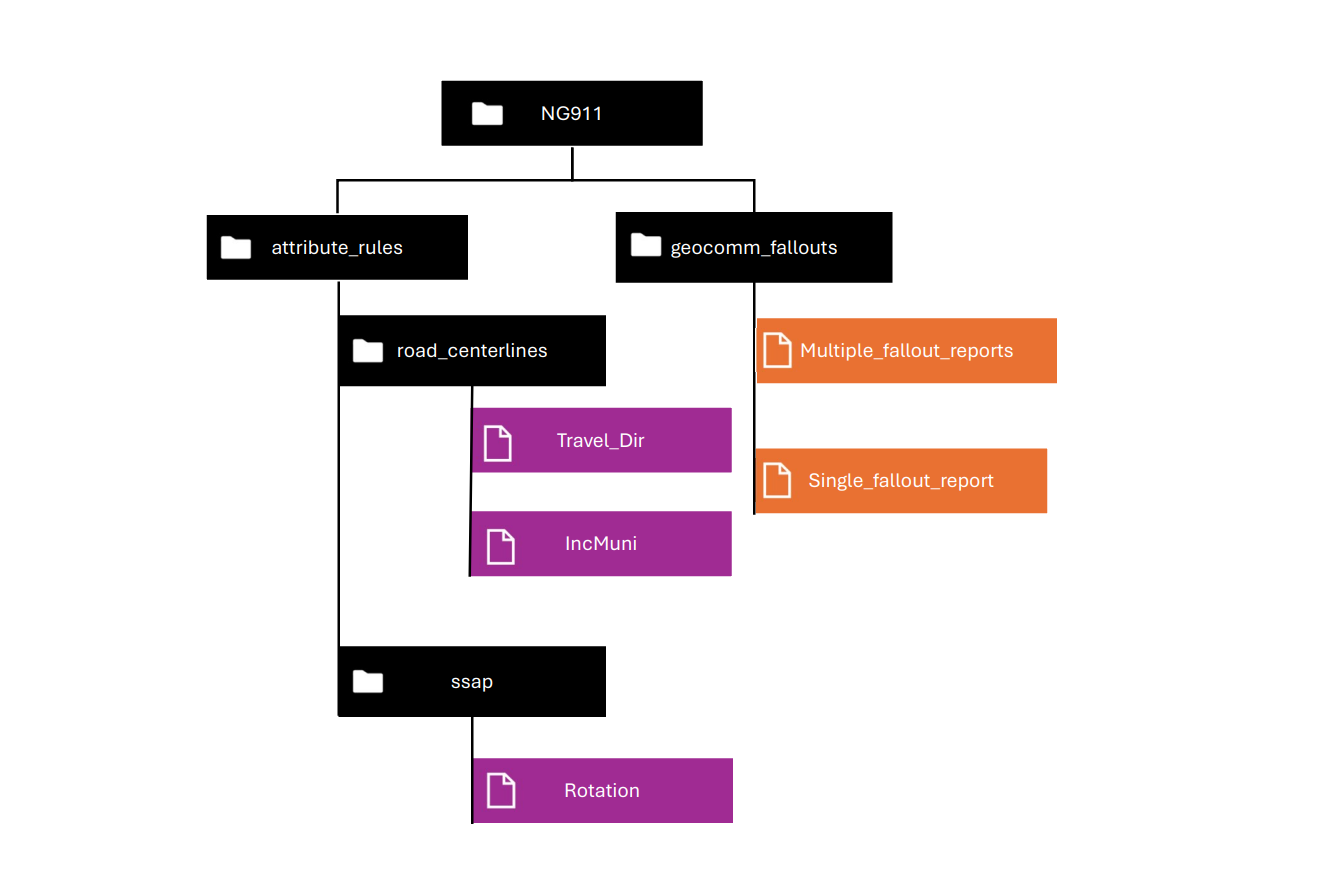
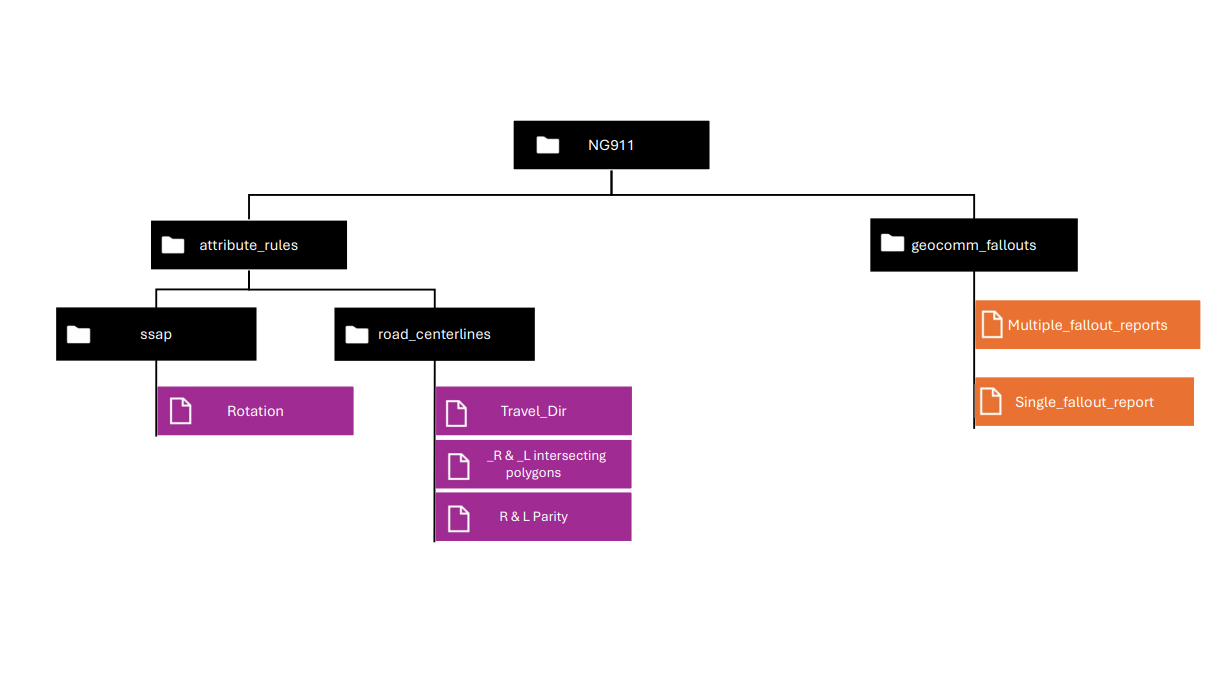
updated R&L rule
updated the incMuni_ rules to be more general, updated overview of contents

Changed region(s): [[0.031, 0.0917, 0.9927, 0.9476]]

diff --git a/attribute_rules/road_centerlines/_R_L-intersectingPolygons.md b/attribute_rules/road_centerlines/_R_L-intersectingPolygons.md
@@ -1,12 +1,12 @@
-# IncMuni_L and IncMuni_R Attribute Rules
-These rules create an array of municipalities that intersect the road centerline feature. 
-In the case of more than one municipality, a test line is generated with the same start point as the rcl feature. A
+# feature_L and _R Attribute Rules
+These rules create an array of polygons that intersect the road centerline feature. 
+In the case of more than one possible match, a test line is generated with the same start point as the rcl feature. A
 buffer is created around the test line, and rotated slightly to the left or right (based on field) around the rcl
 start point. From there a new list of intersecting features is produced, and the one with the greatest area of overlap 
-is selected as the right or left municipality.
+is selected as the right or left feature.
 
-Note that this script can be repurposed for any of the attributes for right and left side of road, such as PostComm, MuniCode, ESN, MSAGComm... simply swap out the feature 
-pointed to by "FeatureSetByName" with the appropriate boundary layer. 
+Note that this script can be repurposed for any of the attributes for right and left side of road, such as IncMuni, PostComm, MuniCode, ESN, MSAGComm... simply swap out the feature 
+pointed to by "FeatureSetByName" with the appropriate boundary layer. This example uses IncMuni.
 
 ## Settings
 **Field:** IncMuni_L, IncMuni_R  
@@ -120,6 +120,7 @@ return finalName
 
 
 ```
+
 ## Caveats
 When an oddly shaped road segment falls on a boundary between two features, a higher rotation angle can return unexpected 
 results. Test the script results along boundaries, paying special attention to those that do not have uniform shapes. Always
@@ -129,6 +130,87 @@ belonging to Washington County, WI's NG911 dataset.
 If you use this for finding right and left ESN, you may want to replace the error messages with rwo different three-digit
 numbers that are not in your domain. eg. 000 and 111. This way you can filter for errors after calculating, but the script
 will still run in cases where there isn't a value for your county on one or both sides of the road
+
+
+## Suggested Modification
+If you are finding that you have a lot of instances where the correct intersecting features are not assigned due to unusual geometry and adjusting the angle of rotation isn't helping, 
+update the rule to only run when the field is null. Wrap everything starting with the first if statement in a check for null, and default to the current value if not null. 
+
+Before the first if statement: 
+```
+if(IsEmpty($feature.currentAttribute)){
+```
+After the return statement: 
+```
+}else{
+return $feature.currentAttribute
+}
+```
+
+All together, using the IncMuni_L example: 
+```js
+// created 6/6/2025 Emma Kraco
+
+// create a buffer of the rcl to grab apparent munis when the placement isn't precise
+var rcl_buf = Buffer($feature, 5, "feet")
+
+// get the list of intersecting munis
+var munis = Intersects(FeatureSetByName($datastore, "your-municipality-feature", ["Municipality_Name"], true),rcl_buf)
+var muniCount = Count(munis)
+
+// get environment and spatial reference for constructing points
+var env = GetEnvironment()
+var wkid = env.SpatialReference.wkid
+
+// set rcl line start vertex for specifying rotation origin
+var start_x = Geometry($feature).paths[0][0].x
+var start_y = Geometry($feature).paths[0][0].y
+var rcl_pt = Point({"x":start_x, "y":start_y, "spatialReference":{"wkid": wkid}})
+
+// add condition to allow user's manual override. Only procedes if the field is already null 
+if(IsEmpty($feature.IncMuni_L)){
+
+
+if (muniCount > 1){
+  // rotate the rcl to the left 5 deg
+  var testLine = Rotate($feature, 5, rcl_pt)
+  // Create buffer for finding intersection area
+  var buf = Buffer(testLine, 10,"feet")
+ 
+  var nameArr = []
+  var areaArr = []
+  for (var i in munis){
+    var areaTest = Area(Intersection(buf, i), 'square-feet')
+    Push(nameArr, i.Municipality_Name)
+    Push(areaArr, areaTest)
+  }
+    if(Count(nameArr)>0){
+    var max_index = IndexOf(areaArr, Max(areaArr))
+    var finalName = nameArr[max_index]
+     }else{
+      finalName = "error1"
+     }
+
+}else{
+     if(muniCount> 0){
+     finalName = First(munis).Municipality_Name
+     }else{
+     finalName = "error2"
+     }
+}
+
+return finalName
+
+
+}else{
+//if field is not null, default to the existing field value
+return $feature.IncMuni_L
+}
+
+```
+
+
+
 
 
 ## Additional Reading
